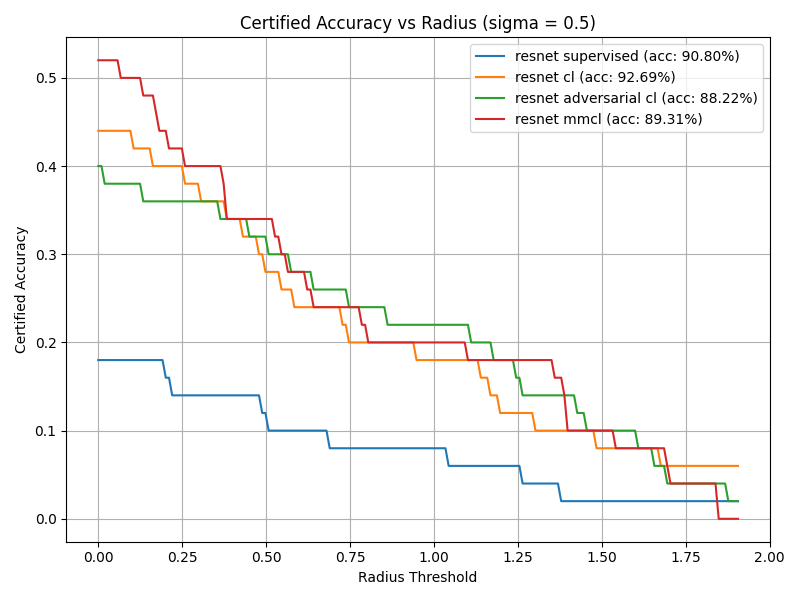
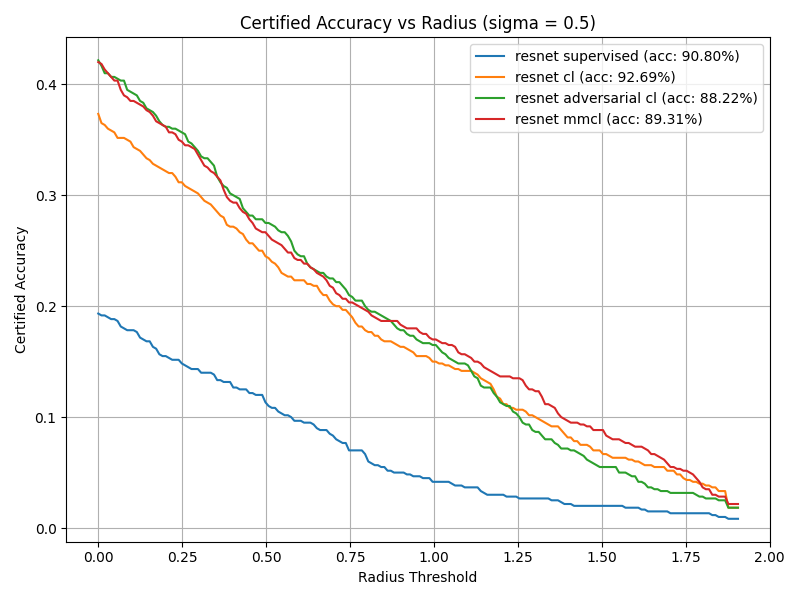
Small updates

diff --git a/plot_from_json/randomized_smoothing_compute_resnet.py b/plot_from_json/randomized_smoothing_compute_resnet.py
@@ -46,7 +46,7 @@ def plot_one_certified_accuracy_per_sigma(data):
             y_vals = []
             for r in x_vals:
                 count = sum(
-                    1 for rec in records if rec["radius"] >= r and rec["true_label"] == rec["rs_label"]
+                    1 for rec in records if rec["radius"] >= r and rec["true_label"] == rec["rs_label"] == rec["predicted_label"]
                 )
                 y_vals.append(count / total if total > 0 else 0)
             # Construct legend label with test accuracy
